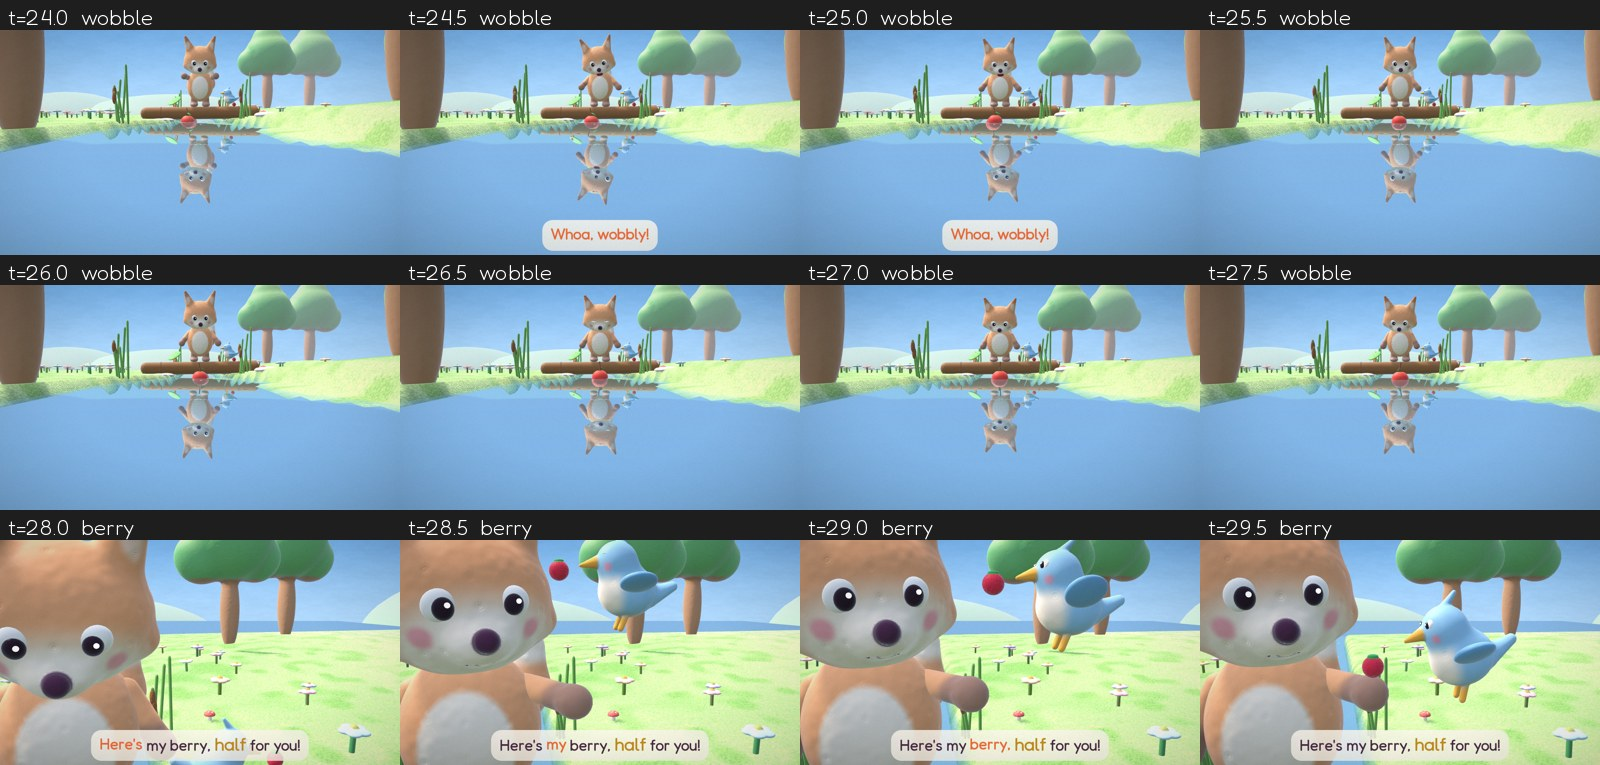
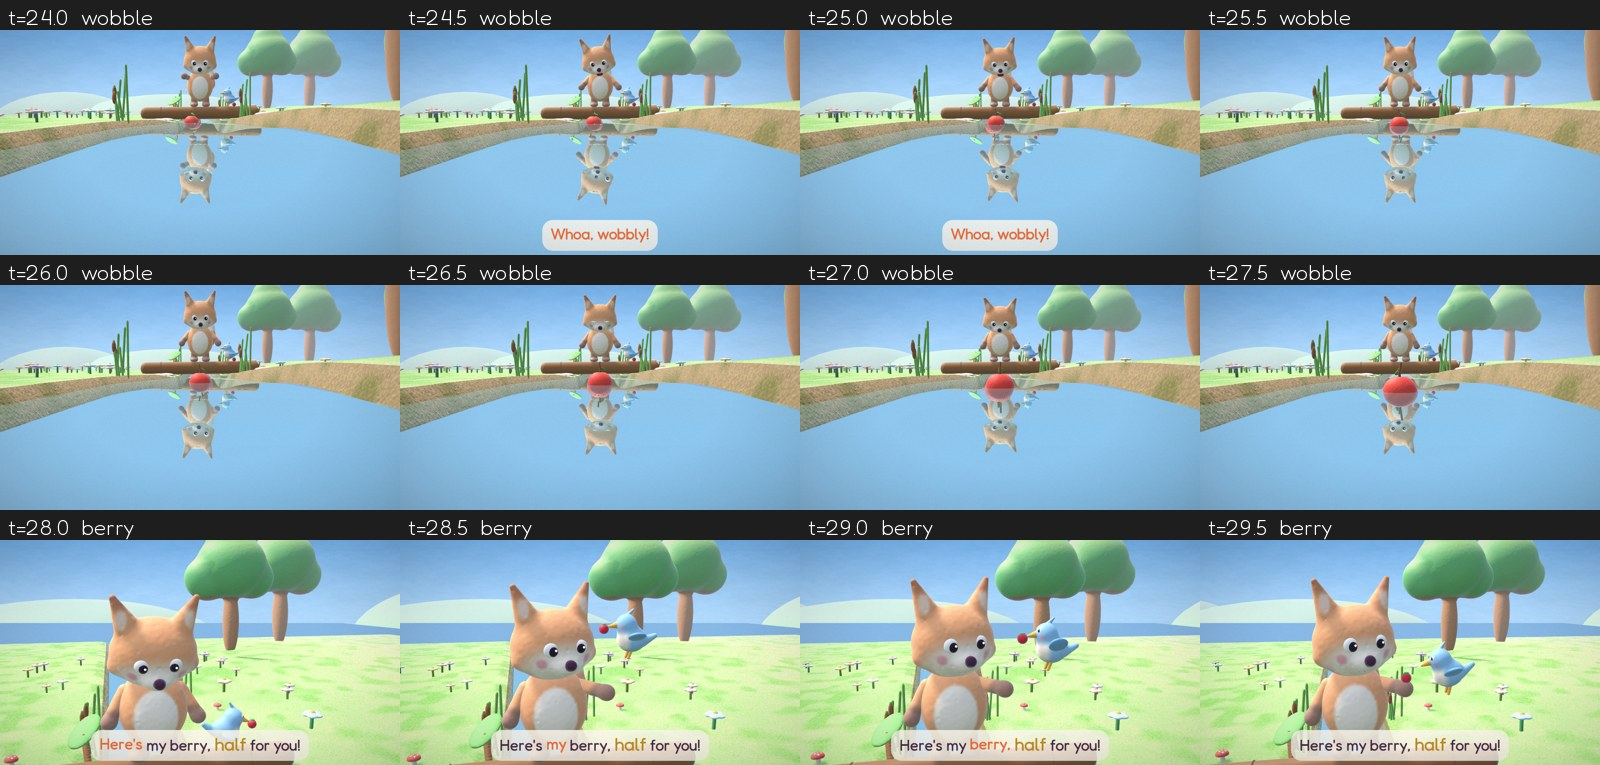
Fable 5: review round 1 fixes (berry in beak, reach, framing, reflection clear of captions, crane tree)
Claude-Session: https://claude.ai/code/session_01Mv5QtLavtEGfcqc6ckUKAA

Changed region(s): [[0.0, 0.6915, 1.0, 1.0], [0.0, 0.3608, 1.0, 0.5712], [0.0, 0.0301, 1.0, 0.2405]]

diff --git a/batches/01-fables-friendship/fable-05-the-other-fox/code/render.py b/batches/01-fables-friendship/fable-05-the-other-fox/code/render.py
@@ -104,12 +104,12 @@ def tumble(t):
     if t < T.SLIP: st["arms"][0] = list(HOLD1)
     st["arms"][1] = list(HOLD1)
     if n in ("hook_mirror", "title_wide"):                     # peering down at the other fox; startles on "Hey!"
-        st["head"][0] = 0.38; st["lean"] = 0.12
+        st["head"][0] = 0.2; st["lean"] = 0.05
         st["y"] += hop_y(t, T.HEY - 0.05, 0.12, 0.3)
         pt = ease(clampu(t, T.HEY + 0.15, T.HEY + 0.5)) * (1 - ease(clampu(t, 2.9, 3.4)))
         st["arms"][0] = lerp(HOLD1, [0.25, 0.85, 0.0], pt).tolist()      # points down at the water
         if n == "title_wide":                                   # looks round as Pip flies in
-            u = ease(clampu(t, 4.3, 5.0)); st["head"][1] = 0.55 * u; st["head"][0] = 0.38 * (1 - u); st["lean"] = 0.12 * (1 - u)
+            u = ease(clampu(t, 4.3, 5.0)); st["head"][1] = 0.55 * u; st["head"][0] = 0.2 * (1 - u); st["lean"] = 0.05 * (1 - u)
     elif n == "proud":                                          # turns to Pip and lifts his apple high
         a = SH[n][0]; u = ease(clampu(t, a, a + 0.6))
         st["yaw"] = FACE_YAW + 0.55 * u; st["head"][1] = 0.25 * u; st["head"][0] = -0.12 * u
@@ -131,12 +131,12 @@ def tumble(t):
         if t > T.BLEH: st["y"] += 0.025 * abs(math.sin((t - T.BLEH) * 9)) * (1 - clampu(t, T.BLEH + 1.4, T.BLEH + 1.6))
     elif n == "reach":                                          # "I want THAT one!": leans and reaches down with both paws
         u = ease(clampu(t, T.REACH - 0.1, T.REACH + 0.5))
-        st["lean"] = 0.1 + 0.2 * u; st["head"][0] = 0.3 + 0.2 * u
-        st["arms"][0] = lerp(HOLD1, [0.12, 0.75, 0.0], u).tolist()
-        st["arms"][1] = lerp(HOLD1, [0.12, 0.75, 0.0], u).tolist()
+        st["lean"] = 0.1 + 0.2 * u; st["head"][0] = 0.3 + 0.25 * u
+        st["arms"][0] = lerp(HOLD1, [0.3, 0.7, 0.62], u).tolist()                      # both paws, together, down towards the water
+        st["arms"][1] = lerp(HOLD1, [0.3, 0.7, 0.62], u).tolist()
         if t > T.SLIP:                                          # the apple slips: paws fly up in surprise
             v = ease(clampu(t, T.SLIP, T.SLIP + 0.3))
-            st["arms"] = [lerp([0.12, 0.75], [0.7, 1.3], v).tolist(), lerp([0.12, 0.75], [0.7, 1.3], v).tolist()]
+            st["arms"] = [lerp([0.3, 0.7, 0.62], [0.7, 1.3, 0.0], v).tolist(), lerp([0.3, 0.7, 0.62], [0.7, 1.3, 0.0], v).tolist()]
             st["lean"] = lerp(0.3, 0.15, v)
     elif n == "wobble":
         a = SH[n][0]
@@ -155,6 +155,7 @@ def tumble(t):
         st["head"][1] = 0.3; st["head"][0] = 0.08; st["arms"][0] = list(PAW_OUT); st["arms"][1] = [0.08, 0.0]
         e = ease(clampu(t, T.BITE - 0.45, T.BITE)) * (1 - ease(clampu(t, T.BITE + 0.35, T.BITE + 0.8)))
         st["arms"][0] = lerp(PAW_OUT, [0.05, 2.05], e).tolist()   # paw to his mouth: one bite
+        if T.BITE + 0.02 < t < T.BITE + 0.55: st["sq"] += 0.06 * abs(math.sin((t - T.BITE) * 13))   # chomp, chomp
         if t > T.BITE + 0.3:                                    # laughs, happy wiggle
             d = t - T.BITE - 0.3
             st["head"][0] = 0.08 - 0.15 * min(1, d * 3); st["y"] += 0.035 * abs(math.sin(d * 9)); st["roll"] = 0.05 * math.sin(d * 7)
@@ -203,17 +204,17 @@ def apple_state(t, mats):
         return ("fall", p, t * 3)
     if t >= SH["wobble"][1]: return None
     d = t - T.SPLASH
-    dx = 0.55 * max(0.0, d - 0.4) + 0.1 * min(d, 0.4)         # bobs, then drifts away down the stream (towards the camera)
+    dx = 1.5 * max(0.0, d - 0.4) + 0.1 * min(d, 0.4)         # bobs, then drifts away down the stream (towards the camera)
     z = land[2] + (TZ - land[2]) * min(1.0, d / 2.5)
     y = YW + 0.02 - 0.09 * math.exp(-d * 4) * math.cos(d * 12) + 0.015 * math.sin(d * 4)
     return ("float", np.array([land[0] + dx, y, z]), T.SPLASH * 3 + 0.8 * d)
 
 # ---------------- Pip and the berry ----------------
 def pip_M(p, yaw, pitch=0.0): return trans(*p) @ roty(yaw) @ rotx(pitch) @ scale(1.1)
-BEAK_HOLD = (0, 0.28, 0.37)                                # a berry held in Pip's beak (local)
+BEAK_HOLD = (0, 0.285, 0.30)                                # a berry held in Pip's beak (local)
 TITLE_A = SH["title_wide"][0]
 FLY_IN = [np.array([LX + 3.2, 2.3, -7.9]), np.array([LX + 0.25, 1.05, PIP_Z]), PIP_SPOT]   # across and down, then down onto the log
-def paw_berry(arms): return hand_pos(arms, 0) + np.array([0, 0.1 + 0.5 * BS - 0.01, 0])
+def paw_berry(arms): return hand_pos(arms, 0) + np.array([0, PAW_TOP + 0.5 * BS - 0.004, 0])
 def hover_spot(arms):
     """beside the open paw on the far side from Tumble, beak towards the berry (side by side from the front camera)"""
     return paw_berry(arms) + np.array([0.0, -0.12, -0.52])
@@ -327,28 +328,29 @@ def camera(t):
     if name == "hook_mirror":                                   # low, down the stream: the fox and the other fox
         return fit_cam(np.array([LX, -0.7, TZ - 0.1]), lerp(94, 91, e), 1.5, 1.3, lerp(3.45, 3.25, e), lift=0.0)
     if name == "title_wide":
-        return fit_cam(np.array([LX + 0.4, 0.7, TZ - 0.2]), 38, 20, 3.0, 2.7 if not WIDE else 2.1, lift=0.0)
+        return fit_cam(np.array([LX + 0.4, 0.7 if not WIDE else 1.45, TZ - 0.2]), 38, 20, 3.0, 2.7 if not WIDE else 2.7, lift=0.0)
     if name == "proud":                                         # medium, eye level, three-quarter
         return fit_cam(np.array([LX + 0.1, 1.45 if WIDE else 1.25, TZ - 0.3]), lerp(62, 70, e), 5, 1.1, 1.75 if WIDE else 1.35)
     if name == "bigger":                                        # down at the water: real apple above, bigger water apple below
-        return fit_cam(np.array([LX + 0.4, lerp(-0.1, -0.3, e), TZ + 0.15]), lerp(78, 86, e), 4, 1.25, lerp(3.4, 3.0, e), lift=0.0)
+        return fit_cam(np.array([LX + 0.4, lerp(-0.1, -0.3, e), TZ + 0.15]), lerp(87, 91, e), 4, 1.25, lerp(3.4, 3.0, e), lift=0.0)
     if name == "silly_face":                                    # close front
         return fit_cam(np.array([LX + 0.3, 1.6, TZ]), 96, 10, 0.75, 0.85)
     if name == "copycat":
         return fit_cam(np.array([LX, -0.7, TZ - 0.1]), 92, 1.5, 1.25, 3.35, lift=0.0)
     if name == "reach":                                         # side-on from the near bank
-        return fit_cam(np.array([LX + 0.45, 0.75, TZ]), 14, 6, 1.45, 1.45)
+        return fit_cam(np.array([LX + 0.55, 0.55 if not WIDE else 0.8, TZ + 0.1]), 12, 22, 1.5, 1.6 if not WIDE else 2.3)
     if name == "wobble":                                        # low down the stream, wider: ripples and the apple bobbing away
         return fit_cam(np.array([LX + 0.6, -0.7, TZ]), 90, 3, 1.4, 3.45, lift=0.0)
     if name == "berry":                                         # macro: the paw, the berry and Pip, from the far-bank side
         pb = paw_berry(fox_mats_p(tumble(SH["berry"][0] + 1.5))[2])
-        return fit_cam(pb + np.array([0.0, 0.15, -0.15]), lerp(76, 84, e), 8, 0.62, 0.62, fov=34)
+        yw = lerp(76, 84, e); rt = np.array([math.cos(math.radians(yw)), 0, -math.sin(math.radians(yw))])
+        return fit_cam(pb + np.array([0.0, 0.2 if not WIDE else 0.45, -0.15]) - 0.22 * rt, yw, 8, 0.8, 0.8 if not WIDE else 1.3, fov=34)
     if name == "share":
         return fit_cam(np.array([LX + 0.2, 1.3, TZ - 0.4]), lerp(96, 88, e), 6, 1.05, 1.15)
     if name == "moral":
-        return fit_cam(np.array([LX, lerp(-0.7, -0.6, e), TZ - 0.25]), lerp(100, 94, e), 1.5, 1.25, lerp(3.45, 3.2, e), lift=0.0)
+        return fit_cam(np.array([LX, lerp(-0.7, -0.6, e), TZ - 0.25]), lerp(93, 91, e), 1.5, 1.25, lerp(3.7, 3.5, e), lift=0.1)
     if name == "chorus":
-        return fit_cam(np.array([LX, -0.6, TZ - 0.25]), 93, 1.5, 1.3, 3.25, lift=0.0)
+        return fit_cam(np.array([LX, -0.6, TZ - 0.25]), 92, 1.5, 1.3, 3.5, lift=0.1)
     return fit_cam(np.array([LX, lerp(-0.6, 0.5, e), TZ - 0.25]), lerp(93, 82, e), lerp(1.5, 24, e), lerp(1.3, 2.4, e), lerp(3.25, 2.7, e), lift=0.0)
 
 # ---------------- draws ----------------
@@ -430,7 +432,7 @@ def apple_grow(t):
 
 def build_draws(t):
     draws, contacts = [], []
-    meadow_backdrop(draws, t)
+    meadow_backdrop(draws, t, trees=[(-7.5, -9.5, 1.6), (6.5, -9.0, 1.8), (-10.5, -13, 1.9), (10.0, -14, 2.0), (3.0, -15, 1.7), (-4.0, -16, 1.8)])   # the near tree at (8.5, -3.5) sat in the crane's lens
     draws[0] = (GROUND5, np.eye(4), U(mat=1, bump=0.8), False)
     for (x, y, z, sx, sy, sz, c) in [(-30, -2.0, -2, 9, 4.5, 14, (.62, .8, .68)), (-32, -2.6, 12, 10, 5.5, 10, (.6, .78, .7)), (30, -2.2, -4, 9, 4.2, 14, (.64, .82, .68))]:
         draws.append((PR["ball"], trans(x, y, z) @ scale(sx, sy, sz), U(mat=0, bump=0.0, tint=c, tintMix=1.0), False))
@@ -452,6 +454,7 @@ def build_draws(t):
         Mp = draw_pip(draws, contacts, t, pip, arms)
         if pip[5].get("tongue"):
             draws.append((PR["ball"], Mp @ trans(0, 0.27, 0.3) @ rotx(0.4) @ scale(0.028, 0.012, 0.045), U(mat=0, bump=0.0, tint=(0.95, 0.45, 0.55), tintMix=1.0), False))
+    puff(draws, paw_berry(arms) + np.array([0, 0.1, 0.05]), T.HALF - 0.05, t, n=7, size=0.03, spread=0.35, dur=0.4)   # the peck splits it: sparkle
     for M in berry_draws(t, pip, arms):
         draws.append((E2["berry"], M, U(mat=0, bump=0.4, obj="berry"), True))
     a = apple_state(t, mats)
@@ -460,7 +463,7 @@ def build_draws(t):
         ap = a[1]; spin = a[2] if len(a) > 2 else 0.0
         Ma = trans(*ap) @ roty(spin) @ scale(APPLE_S)
         draws.append((E2["apple"], Ma, U(mat=0, bump=0.5, obj="apple"), True))
-        draws.append((PR["stick"], Ma @ trans(0, 0.55, 0) @ rotz(0.25) @ scale(0.6, 0.35, 0.6), U(mat=0, bump=0.0, tint=(0.48, 0.32, 0.2), tintMix=1.0), False))
+        draws.append((PR["stick"], Ma @ trans(0, 0.55, 0) @ rotz(0.25) @ scale(0.6, 0.22, 0.6), U(mat=0, bump=0.0, tint=(0.48, 0.32, 0.2), tintMix=1.0), False))
     splash_draws(draws, t)
     # mirrored copies of everything on and over the stream (the reflection), with the ripple wobble
     refl = []; amp = wobble_amp(t); grow = apple_grow(t)
